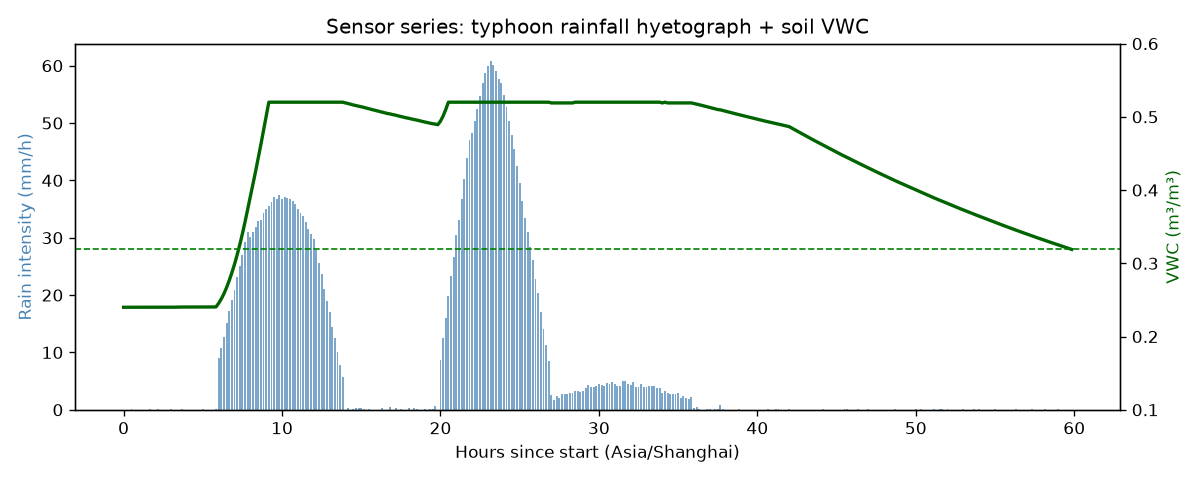
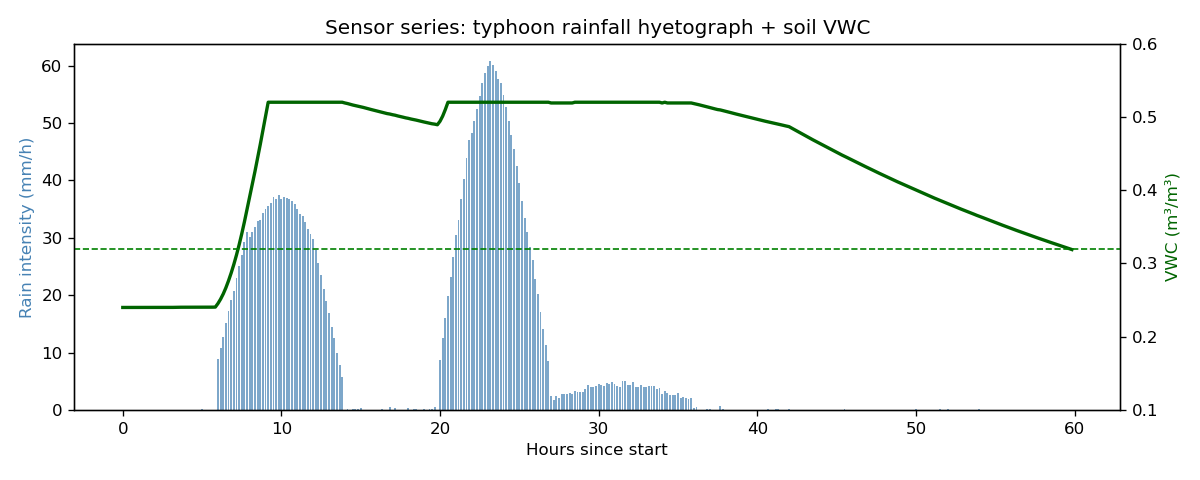
remove time-zone from fig_rain_vwc.png,  updated desciption in PROVINCE.md according to teammate's work

diff --git a/app/dashboard.py b/app/dashboard.py
@@ -50,7 +50,7 @@ def save_figures(data: dict[str, pd.DataFrame] | None = None) -> list[Path]:
     fig, ax1 = plt.subplots(figsize=(10, 4))
     ax1.bar(t, feat["rain_mm_h"], width=0.12, color="steelblue", alpha=0.7, label="Rain (mm/h)")
     ax1.set_ylabel("Rain intensity (mm/h)", color="steelblue")
-    ax1.set_xlabel("Hours since start (Asia/Shanghai)")
+    ax1.set_xlabel("Hours since start")
     ax2 = ax1.twinx()
     ax2.plot(t, feat["vwc_m3m3"], color="darkgreen", lw=2, label="VWC")
     ax2.axhline(0.32, color="green", ls="--", lw=1, label="FC=0.32")

diff --git a/PROVENANCE.md b/PROVENANCE.md
@@ -1,16 +1,15 @@
 # PROVENANCE — Rice waterlogging drainage prototype
 
 ## Region & crop
-- **Place:** Polder-style farmland, Jianghuai / middle-lower Yangtze (eastern China).
-- **Timezone:** Asia/Shanghai (UTC+8).
-- **Crop:** Rice (single plot `P-RICE-A`).
+- **Place:** Farmland in Northern China (Huaihe River Plain)
+- **Timezone:** Asia /Shanghai (UTC+8).
+- **Crop:** Rice in the simulation (single plot `P-RICE-A`).
 - **Hazard:** Waterlogging from heavy rain / typhoon **rainfall hyetograph only**.  
-  No cyclone track, wind, storm surge, or salinity modules.
 
 ## Scale & hardware fiction
 - **Area:** ~10 ha equivalent (one field).
 - **Sensors:** Raspberry Pi + capacitive rainfall (`rain_cap`) + capacitive soil VWC (`soil_vwc_cap`), 10-min logging.
-- **Drainage:** ONE soil bucket + ONE ditch/sump + ONE on/off pump. No GPIO in this repo.
+- **Drainage:** one soil bucket + one drainage pump + one valve. 
 
 ## Soil / bucket parameters
 | Symbol | Value | Meaning |
@@ -24,14 +23,13 @@
 
 ### Bucket equations (see `src/hydrology.py` comments)
 1. Infiltration fills θ up to θs; remainder is surface excess.
-2. Excess accumulates as ponding / ditch stage `h` (mm).
+2. Excess accumulates as ponding stage `h` (mm).
 3. Pump removes up to `Qp × Δt` while ON; `h` never negative.
 4. Slow percolation drains θ toward FC when wet.
 
 ## Pump capacity
 - **Qp = 25 mm/h** equivalent over the plot  
   ≈ 25×10⁻³ m/h × 100_000 m² = **2_500 m³/h** for 10 ha.  
-  Chosen as a mid-size agricultural axial-flow pump class for a polder ditch — documented fiction for the prototype.
 
 ## Rule thresholds
 | Policy | ON | OFF (hysteresis) |
